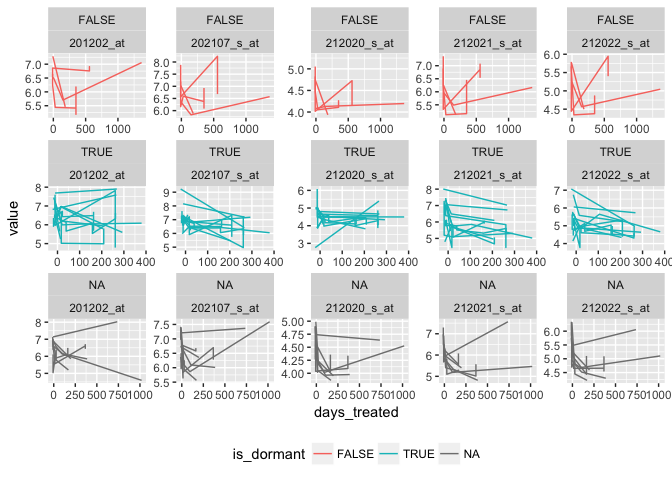
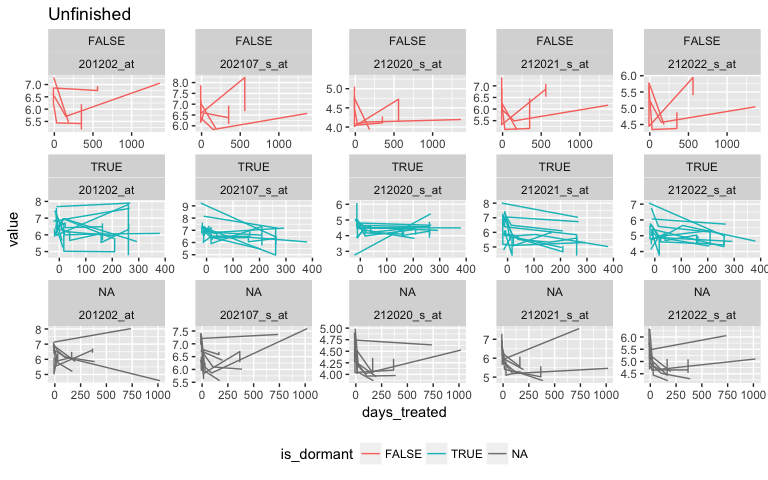
dormancy classification by USS

Changed region(s): [[0.0, 0.0, 1.0, 0.875], [0.5, 0.9375, 0.7188, 0.9688], [0.3438, 0.9375, 0.4688, 0.9688]]

diff --git a/georgetown/src/uss-clasification/uss-clasification.md b/georgetown/src/uss-clasification/uss-clasification.md
@@ -102,7 +102,7 @@ probeset_dfr <- id2GeneSymbolBM(ids = c("PCNA", "MCM2", "MKI67"),
                 attributes = "affy_hg_u133a")
 probeset_dfr$affy_hg_u133a[probeset_dfr$affy_hg_u133a == ""] <- NA
 probeset_all <- as.character(na.omit(probeset_dfr$affy_hg_u133a))
-probeset_available <- row.names(georgeset)[which(row.names(georgeset) %in% probeset)]
+probeset_available <- row.names(georgeset)[which(row.names(georgeset) %in% probeset_all)]
 
 xpr <- exprs(georgeset[probeset_available, xprdorm_ind])
 
@@ -114,7 +114,8 @@ ggplot(xpr_mrg, aes(x = days_treated, y = value, colour = is_dormant, group = pa
     geom_line() +
     facet_wrap(is_dormant~Var1, scales = 'free', ncol = 5) + 
 #    theme_pander() + 
-    theme(legend.position = 'bottom')
+    theme(legend.position = 'bottom') + 
+    ggtitle("Unfinished")
 ```
 
 <img src="uss-clasification_files/figure-markdown_github-ascii_identifiers/unnamed-chunk-7-1.png" style="display: block; margin: auto;" />
